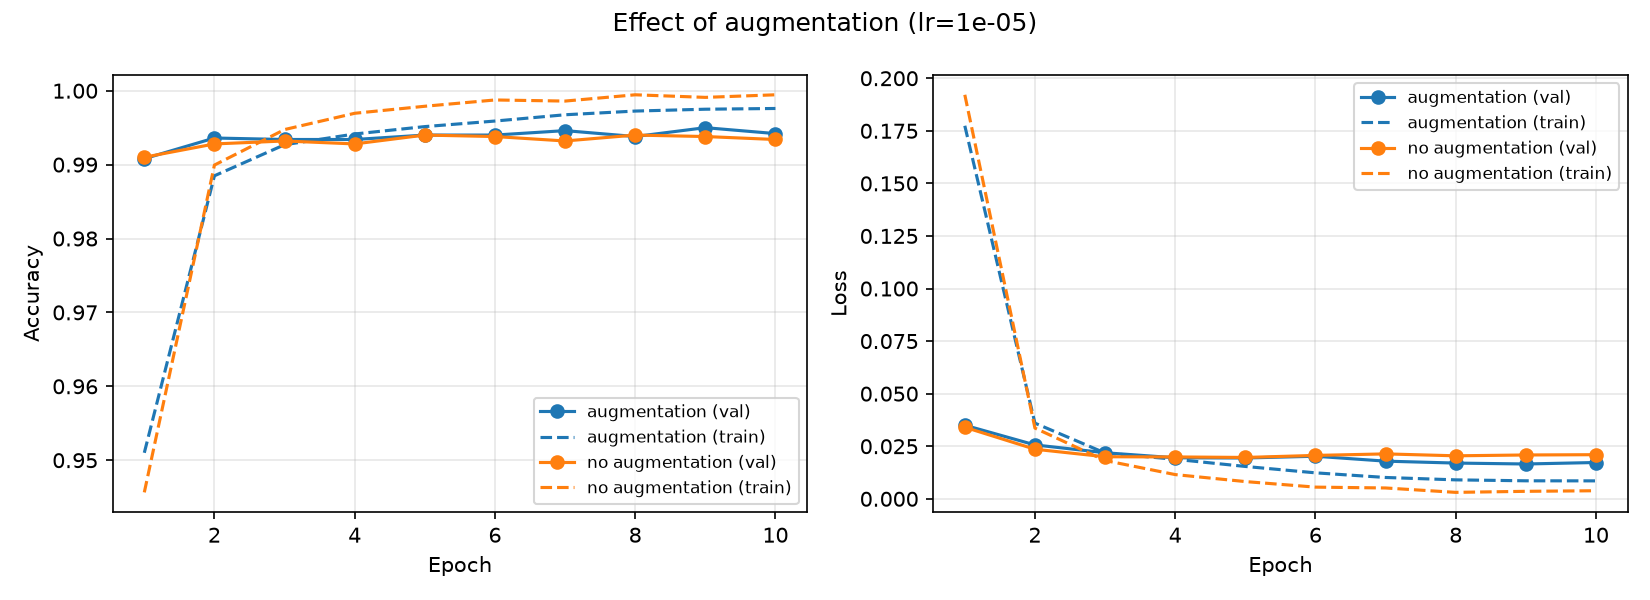
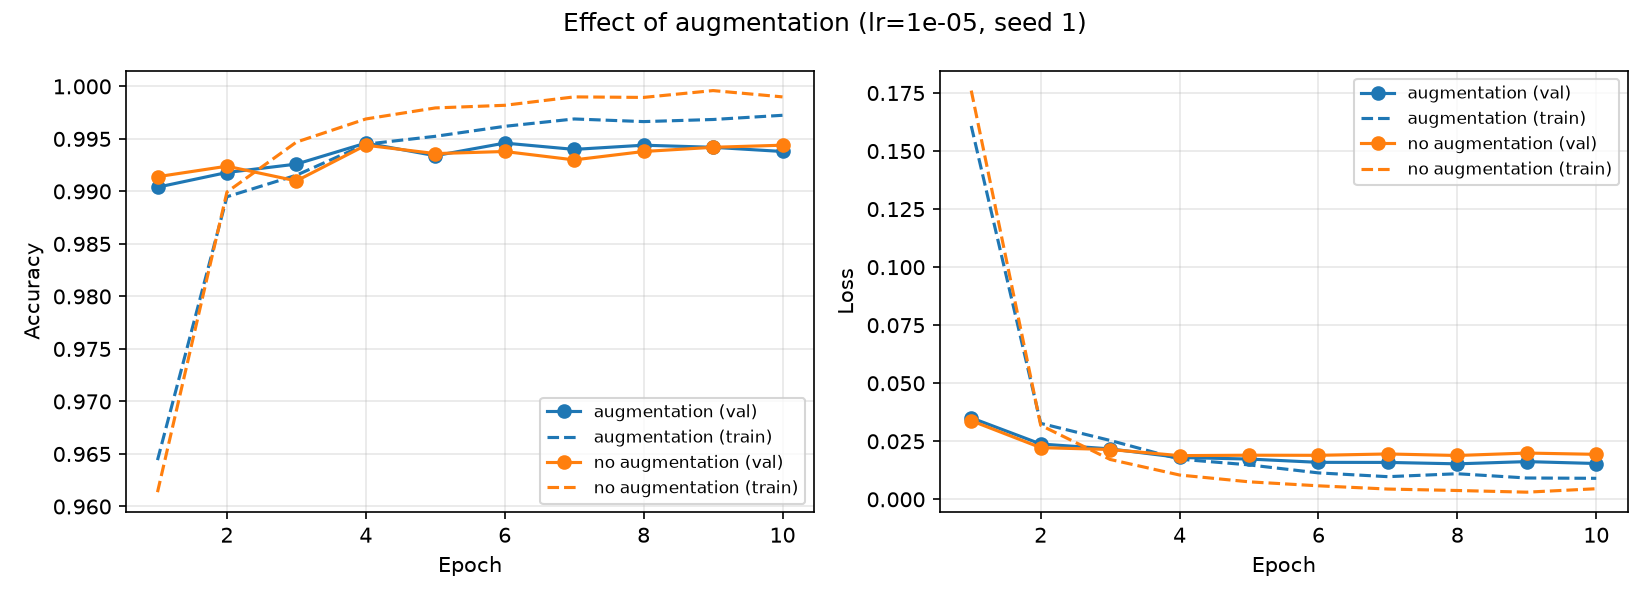
Add ResNet50 training experiments and results

diff --git a/resnet50/compare_runs.py b/resnet50/compare_runs.py
@@ -224,15 +224,26 @@ def main():
         curves([(r, f"lr={r['cfg']['lr']:g}") for r in lr_runs],
                "Effect of learning rate (ResNet50, pretrained)", "fig_learning_rate.png")
 
-    # ---- 2. augmentation
-    noaug = find(runs, lr=base["cfg"]["lr"], noaug=True)
-    if noaug:
-        print(f"\n2. AUGMENTATION at lr={base['cfg']['lr']:g}, seed 42")
-        table(["setting", "best val %", "final val %", "final train %", "gap pp", "final val loss"],
-              [[n, f"{100 * r['best_val']:.2f}", f"{100 * r['val']:.2f}", f"{100 * r['train']:.2f}",
-                f"{100 * r['gap']:.2f}", f"{r['val_loss']:.4f}"] for n, r in (("augmentation", base), ("no augmentation", noaug))])
-        train_vs_val([(base, "augmentation"), (noaug, "no augmentation")],
-                     f"Effect of augmentation (lr={base['cfg']['lr']:g})", "fig_augmentation.png")
+    # ---- 2. augmentation (every seed that exists for both settings)
+    lr0 = base["cfg"]["lr"]
+    noaug_runs = [r for r in runs if r["cfg"]["noaug"] and not r["cfg"]["scratch"]
+                  and r["cfg"]["lr"] == lr0 and r["cfg"]["epochs"] == EPOCHS]
+    common = sorted({r["cfg"]["seed"] for r in noaug_runs} & {r["cfg"]["seed"] for r in seeds})
+    if common:
+        print(f"\n2. AUGMENTATION at lr={lr0:g}, seeds {common}")
+        rows2 = []
+        for name, group in (("augmentation", seeds), ("no augmentation", noaug_runs)):
+            g = sorted([r for r in group if r["cfg"]["seed"] in common], key=lambda r: r["cfg"]["seed"])
+            for r in g:
+                rows2.append([name, r["cfg"]["seed"], f"{100 * r['best_val']:.2f}", f"{100 * r['val']:.2f}",
+                              f"{100 * r['train']:.2f}", f"{100 * r['gap']:.2f}", f"{r['val_loss']:.4f}"])
+            m = lambda k: statistics.mean(r[k] for r in g)
+            rows2.append([name, "mean", f"{100 * m('best_val'):.2f}", f"{100 * m('val'):.2f}",
+                          f"{100 * m('train'):.2f}", f"{100 * m('gap'):.2f}", f"{m('val_loss'):.4f}"])
+        table(["setting", "seed", "best val %", "final val %", "final train %", "gap pp", "final val loss"], rows2)
+        pair = (find(runs, lr=lr0, seed=common[0]), find(runs, lr=lr0, seed=common[0], noaug=True))
+        train_vs_val([(pair[0], "augmentation"), (pair[1], "no augmentation")],
+                     f"Effect of augmentation (lr={lr0:g}, seed {common[0]})", "fig_augmentation.png")
 
     # ---- 3. seeds
     if len(seeds) > 1:
@@ -277,7 +288,7 @@ def main():
             v = [h["val_acc"] for h in r["hist"]]
             gain = v[-1] - v[-4]
             print(f"  scratch val acc gain over its last 3 epochs: {100 * gain:+.2f} pp"
-                  + (" (still improving -> the gap to pretrained is a lower bound)" if gain > 0.001 else ""))
+                  + (" (still improving -> the measured gap to pretrained is an upper bound of the gap at convergence)" if gain > 0.001 else ""))
         curves(items, "Pretrained vs random initialisation", "fig_pretrained_vs_scratch.png")
 
     # ---- test analysis of the chosen run

diff --git a/resnet50/README.md b/resnet50/README.md
@@ -7,20 +7,21 @@ Reproduce all tables and figures: `python resnet50/compare_runs.py`
 - ResNet50 pretrained on ImageNet, all layers fine-tuned (scratch run: random start)
 - 19,981 train, 5,000 val, 500 test images, 224 x 224
 - AdamW (weight decay 1e-4), cosine LR schedule, batch size 32, seed 42 unless stated
-- 10 epochs (only scratch run: 20 epochs)
+- 10 epochs, no early stopping (scratch run: 20 epochs)
 - Saved model = the epoch with the highest val accuracy
 
 ## All runs
 
-| Run                              | Best val % (epoch)  | Last-epoch val % | Last-epoch val loss | Train-val gap (pp) |
-| -------------------------------- | ------------------- | ---------------- | ------------------- | ------------------ |
-| lr 1e-5 (baseline)               | **99.50** (9) | 99.42            | 0.0173              | 0.34               |
-| lr 1e-4                          | 99.40 (8)           | 99.38            | 0.0195              | 0.57               |
-| lr 1e-3                          | 98.50 (10)          | 98.50            | 0.0427              | 0.98               |
-| lr 1e-5, no augmentation         | 99.40 (5)           | 99.34            | 0.0210              | 0.60               |
-| lr 1e-5, seed 1                  | 99.46 (6)           | 99.38            | 0.0154              | 0.34               |
-| lr 1e-5, seed 2                  | 99.44 (7)           | 99.34            | 0.0173              | 0.42               |
-| From scratch, lr 1e-3, 20 epochs | 96.28 (20)          | 96.28            | 0.1043              | 0.25               |
+| Run | Best val % (epoch) | Last-epoch val % | Last-epoch val loss | Train-val gap (pp) |
+| --- | --- | --- | --- | --- |
+| lr 1e-5 (baseline) | **99.50** (9) | 99.42 | 0.0173 | 0.34 |
+| lr 1e-4 | 99.40 (8) | 99.38 | 0.0195 | 0.57 |
+| lr 1e-3 | 98.50 (10) | 98.50 | 0.0427 | 0.98 |
+| lr 1e-5, no augmentation | 99.40 (5) | 99.34 | 0.0210 | 0.60 |
+| lr 1e-5, no augmentation, seed 1 | 99.44 (4) | 99.44 | 0.0194 | 0.46 |
+| lr 1e-5, seed 1 | 99.46 (6) | 99.38 | 0.0154 | 0.34 |
+| lr 1e-5, seed 2 | 99.44 (7) | 99.34 | 0.0173 | 0.42 |
+| From scratch, lr 1e-3, 20 epochs | 96.28 (20) | 96.28 | 0.1043 | 0.25 |
 
 - Best val = the best epoch out of 10. This is the model we keep.
 - Last-epoch val = epoch 10.
@@ -41,36 +42,46 @@ Figure: `results/fig_learning_rate.png`
 
 Figure: `results/fig_augmentation.png`
 
-**Conclusion: keep augmentation.**
+| Setting | Seed | Best val % | Last-epoch val % | Last-epoch val loss | Gap (pp) |
+| --- | --- | --- | --- | --- | --- |
+| Augmentation | 42 | 99.50 | 99.42 | 0.0173 | 0.34 |
+| Augmentation | 1 | 99.46 | 99.38 | 0.0154 | 0.34 |
+| **Augmentation, mean** | | **99.48** | **99.40** | **0.0164** | **0.34** |
+| No augmentation | 42 | 99.40 | 99.34 | 0.0210 | 0.60 |
+| No augmentation | 1 | 99.44 | 99.44 | 0.0194 | 0.46 |
+| **No augmentation, mean** | | **99.42** | **99.39** | **0.0202** | **0.53** |
 
-- Without augmentation the model overfits. Val loss is lowest at epoch 5 (0.0197) and then goes up (0.0210), while train loss keeps going down.
-- With augmentation, val loss keeps going down until epoch 9.
-- The gap is bigger without augmentation (0.60 vs 0.34 pp).
-- The accuracy difference is small (5 images). One seed only.
+**Conclusion: keep augmentation. The reason is less overfitting, not higher accuracy.**
+
+- Accuracy is about the same. Best val differs by 0.06 pp (3 images). Last-epoch val is 99.40 vs 99.39.
+- Val loss is lower with augmentation in both seeds (0.0173 vs 0.0210, 0.0154 vs 0.0194).
+- The gap is smaller with augmentation in both seeds (0.34 vs 0.60, 0.34 vs 0.46).
+- Without augmentation, train accuracy reaches about 99.9% and val loss stops improving after epoch 4 or 5. With augmentation, val loss keeps improving until epoch 8 or 9.
+- Two seeds per setting only.
 
 ## 3. Seeds
 
 Seeds 42, 1, 2 of the baseline. File: `results/seeds.csv`.
 
-| Metric                  | Mean % | Std % |
-| ----------------------- | ------ | ----- |
-| Best val accuracy       | 99.47  | 0.03  |
-| Last-epoch val accuracy | 99.38  | 0.04  |
+| Metric | Mean % | Std % |
+| --- | --- | --- |
+| Best val accuracy | 99.47 | 0.03 |
+| Last-epoch val accuracy | 99.38 | 0.04 |
 
 **Conclusion: the baseline is stable. Final val result: 99.47 ± 0.03%.**
 
 - lr 1e-3 and scratch are far below the noise level, so these differences are real.
-- lr 1e-4 and no augmentation are 0.10 pp lower. This is just above 2 std (0.06 pp), so the evidence is weak.
+- lr 1e-4 is 0.10 pp lower. This is just above 2 std (0.06 pp), so the evidence is weak.
 
 ## 4. Pretrained vs scratch
 
 Figure: `results/fig_pretrained_vs_scratch.png`
 
-| Run                 | Epochs | Best val % |
-| ------------------- | ------ | ---------- |
-| Pretrained, lr 1e-5 | 10     | 99.50      |
-| Pretrained, lr 1e-3 | 10     | 98.50      |
-| Scratch, lr 1e-3    | 20     | 96.28      |
+| Run | Epochs | Best val % |
+| --- | --- | --- |
+| Pretrained, lr 1e-5 | 10 | 99.50 |
+| Pretrained, lr 1e-3 | 10 | 98.50 |
+| Scratch, lr 1e-3 | 20 | 96.28 |
 
 **Conclusion: pretrained weights help a lot.**
 
@@ -83,10 +94,10 @@ Final model: `resnet50/runs/resnet50_lr1e-05_n19981_e10_s42/best.pt` (best val 9
 
 Test labels were used once, for this model only.
 
-| Metric (dog = positive) | Value                      |
-| ----------------------- | -------------------------- |
-| Accuracy                | **100% (500/500)**        |
-| Confusion counts        | TN 241, FP 0, FN 0, TP 259 |
+| Metric (dog = positive) | Value |
+| --- | --- |
+| Accuracy | 100% (500/500) |
+| Confusion counts | TN 241, FP 0, FN 0, TP 259 |
 
 Figures: `results/fig_confusion_matrix.png`, `results/fig_error_samples.png`.
 
@@ -99,6 +110,7 @@ python resnet50/train_resnet50.py --lr 1e-5 --seed 42
 python resnet50/train_resnet50.py --lr 1e-4 --seed 42
 python resnet50/train_resnet50.py --lr 1e-3 --seed 42
 python resnet50/train_resnet50.py --lr 1e-5 --seed 42 --no-augment
+python resnet50/train_resnet50.py --lr 1e-5 --seed 1 --no-augment
 python resnet50/train_resnet50.py --lr 1e-5 --seed 1
 python resnet50/train_resnet50.py --lr 1e-5 --seed 2
 python resnet50/train_resnet50.py --scratch --lr 1e-3 --epochs 20 --seed 42
